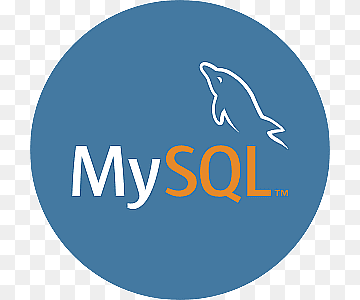
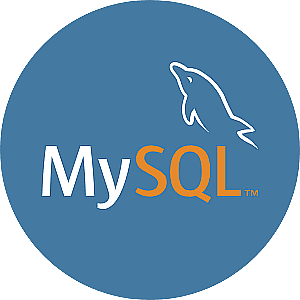
my sql imagem fix

Changed region(s): [[0.0, 0.0, 1.0, 1.0], [0.51, 0.99, 0.6, 1.0], [0.84, 0.48, 0.87, 0.51]]

diff --git a/index.html b/index.html
@@ -1,5 +1,6 @@
 <!DOCTYPE html>
 <html lang="en">
+
 <head>
     <meta charset="UTF-8">
     <meta name="viewport" content="width=device-width, initial-scale=1.0">
@@ -7,6 +8,7 @@
     <link href="https://fonts.googleapis.com/css2?family=Roboto:wght@400;700&display=swap" rel="stylesheet">
     <link rel="stylesheet" href="styles.css">
 </head>
+
 <body>
     <header>
         <h1>Alex Ribeiro Alves Portfolio</h1>
@@ -16,18 +18,21 @@
             <h2>My projects</h2>
             <!-- Projeto 1 -->
             <div class="project">
-                <img src="https://raw.githubusercontent.com/xation222/snake-python/main/gameplay.gif" alt="Imagem do Projeto 1">
+                <img src="https://raw.githubusercontent.com/xation222/snake-python/main/gameplay.gif"
+                    alt="Imagem do Projeto 1">
                 <div class="project-details">
                     <h3>Project 1</h3>
                     <p>A simple snake game, with sound and score. Using Python.</p>
                     <a href="https://github.com/xation222/snake-python" target="_blank">Go to GitHub</a>
                     <br>
-                    <a href="https://github.com/xation222/snake-python/raw/main/snake.rar" target="_blank">Download the Game</a>
+                    <a href="https://github.com/xation222/snake-python/raw/main/snake.rar" target="_blank">Download the
+                        Game</a>
                 </div>
             </div>
             <!-- Projeto 2 -->
             <div class="project">
-                <img src="https://raw.githubusercontent.com/xation222/Som-de-Fundo/refs/heads/main/imagens/read%20me%201.png" alt="Imagem do Projeto 2">
+                <img src="https://raw.githubusercontent.com/xation222/Som-de-Fundo/refs/heads/main/imagens/read%20me%201.png"
+                    alt="Imagem do Projeto 2">
                 <div class="project-details">
                     <h3>Project 2</h3>
                     <p>Background Sound. Overlay audio to create custom ambient sound</p>
@@ -38,7 +43,8 @@
             </div>
             <!-- Projeto 3 -->
             <div class="project">
-                <img src="https://raw.githubusercontent.com/xation222/music-teacher-site/refs/heads/main/imagens/readme.png" alt="Imagem do Projeto 3">
+                <img src="https://raw.githubusercontent.com/xation222/music-teacher-site/refs/heads/main/imagens/readme.png"
+                    alt="Imagem do Projeto 3">
                 <div class="project-details">
                     <h3>Project 3</h3>
                     <p>Music Teacher Website. Created to contact the teacher to music classes.</p>
@@ -49,7 +55,8 @@
             </div>
             <!-- Projeto 4 -->
             <div class="project">
-                <img src="https://raw.githubusercontent.com/xation222/RPG_Site/main/imagens/readme.png" alt="Imagem do Projeto 4">
+                <img src="https://raw.githubusercontent.com/xation222/RPG_Site/main/imagens/readme.png"
+                    alt="Imagem do Projeto 4">
                 <div class="project-details">
                     <h3>Project 4</h3>
                     <p>Yes, i like RPG. This is from a RPG campaign</p>
@@ -60,7 +67,8 @@
             </div>
             <!-- Projeto 5 -->
             <div class="project">
-                <img src="https://raw.githubusercontent.com/xation222/calculadora-online/main/readme.png" alt="Imagem do Projeto 5">
+                <img src="https://raw.githubusercontent.com/xation222/calculadora-online/main/readme.png"
+                    alt="Imagem do Projeto 5">
                 <div class="project-details">
                     <h3>Project 5</h3>
                     <p>A online calculator. Using JavaScript.</p>
@@ -71,10 +79,12 @@
             </div>
             <!-- Projeto 6 -->
             <div class="project">
-                <img src="https://raw.githubusercontent.com/xation222/site-loginandposts/main/readme.png" alt="Imagem do Projeto 6">
+                <img src="https://raw.githubusercontent.com/xation222/site-loginandposts/main/readme.png"
+                    alt="Imagem do Projeto 6">
                 <div class="project-details">
                     <h3>Project 6</h3>
-                    <p>A site with register and login. Using PHP, need a server PHP, unfortunately github does not support php sites. </p>
+                    <p>A site with register and login. Using PHP, need a server PHP, unfortunately github does not
+                        support php sites. </p>
                     <a href="https://github.com/xation222/site-loginandposts" target="_blank">Go to GitHub</a>
                 </div>
             </div>
@@ -91,22 +101,81 @@
             <div class="skills-grid">
                 <!-- Skill 1 -->
                 <div class="skill">
-                    <img src="javascript-icon.png" alt="JavaScript">
+                    <img src="https://raw.githubusercontent.com/xation222/portifolio/refs/heads/main/icons/javascript.png"
+                        alt="JavaScript">
                     <p>JavaScript</p>
                 </div>
                 <!-- Skill 2 -->
                 <div class="skill">
-                    <img src="html-icon.png" alt="HTML">
+                    <img src="https://raw.githubusercontent.com/xation222/portifolio/refs/heads/main/icons/html.png"
+                        alt="HTML">
                     <p>HTML</p>
                 </div>
                 <!-- Skill 3 -->
                 <div class="skill">
-                    <img src="css-icon.png" alt="CSS">
+                    <img src="https://raw.githubusercontent.com/xation222/portifolio/refs/heads/main/icons/css.png"
+                        alt="CSS">
                     <p>CSS</p>
                 </div>
-                <!-- Add more skills as needed -->
+                <!-- Skill 4 -->
+                <div class="skill">
+                    <img src="https://raw.githubusercontent.com/xation222/portifolio/refs/heads/main/icons/Git.png"
+                        alt="Git">
+                    <p>Git</p>
+                </div>
+                <!-- Skill 5 -->
+                <div class="skill">
+                    <img src="https://raw.githubusercontent.com/xation222/portifolio/refs/heads/main/icons/figma.png"
+                        alt="Figma">
+                    <p>Figma</p>
+                </div>
+                <!-- Skill 6 -->
+                <div class="skill">
+                    <img src="https://raw.githubusercontent.com/xation222/portifolio/refs/heads/main/icons/mySQL.png"
+                        alt="MySQL">
+                    <p>MySQL</p>
+                </div>
+                <!-- Skill 7 -->
+                <div class="skill">
+                    <img src="https://raw.githubusercontent.com/xation222/portifolio/refs/heads/main/icons/node-js.png"
+                        alt="Node-js">
+                    <p>Node-js</p>
+                </div>
+                <!-- Skill 8 -->
+                <div class="skill">
+                    <img src="https://raw.githubusercontent.com/xation222/portifolio/refs/heads/main/icons/php.png"
+                        alt="PHP">
+                    <p>PHP</p>
+                </div>
+                <!-- Skill 9 -->
+                <div class="skill">
+                    <img src="https://raw.githubusercontent.com/xation222/portifolio/refs/heads/main/icons/python.png"
+                        alt="Python">
+                    <p>Python</p>
+                </div>
+                <!-- Skill 10 -->
+                <div class="skill">
+                    <img src="https://raw.githubusercontent.com/xation222/portifolio/refs/heads/main/icons/typescript.png" alt="typescript">
+                    <p>typescript</p>
+                </div>
+                <!-- Skill 11 -->
+                <div class="skill">
+                    <img src="https://raw.githubusercontent.com/xation222/portifolio/refs/heads/main/icons/wordpress.png" alt="Wordpress">
+                    <p>Wordpress</p>
+                </div>
+                <!-- Skill 12 -->
+                <div class="skill">
+                    <img src="https://raw.githubusercontent.com/xation222/portifolio/refs/heads/main/icons/angularjs.png" alt="Angular">
+                    <p>Angular</p>
+                </div>
+                <!-- Skill 13 -->
+                <div class="skill">
+                    <img src="https://raw.githubusercontent.com/xation222/portifolio/refs/heads/main/icons/bootstrap.png" alt="Bootstrap">
+                    <p>Bootstrap</p>
+                </div>
             </div>
         </section>
     </main>
 </body>
+
 </html>

diff --git a/styles.css b/styles.css
@@ -68,6 +68,31 @@ section {
     text-decoration: underline;
 }
 
+.skills-grid {
+    display: grid;
+    grid-template-columns: repeat(auto-fit, minmax(120px, 1fr));
+    gap: 1rem;
+    margin-top: 1rem;
+}
+
+.skill {
+    text-align: center;
+    background: #fff;
+    border-radius: 8px;
+    padding: 1rem;
+    box-shadow: 0 4px 6px rgba(0, 0, 0, 0.1);
+}
+
+.skill img {
+    width: 60px;
+    height: 60px;
+    margin-bottom: 0.5rem;
+}
+
+.skill p {
+    margin: 0;
+    font-weight: 700;
+}
 @media (max-width: 550px) {
     header h1 {
         margin: 0;
